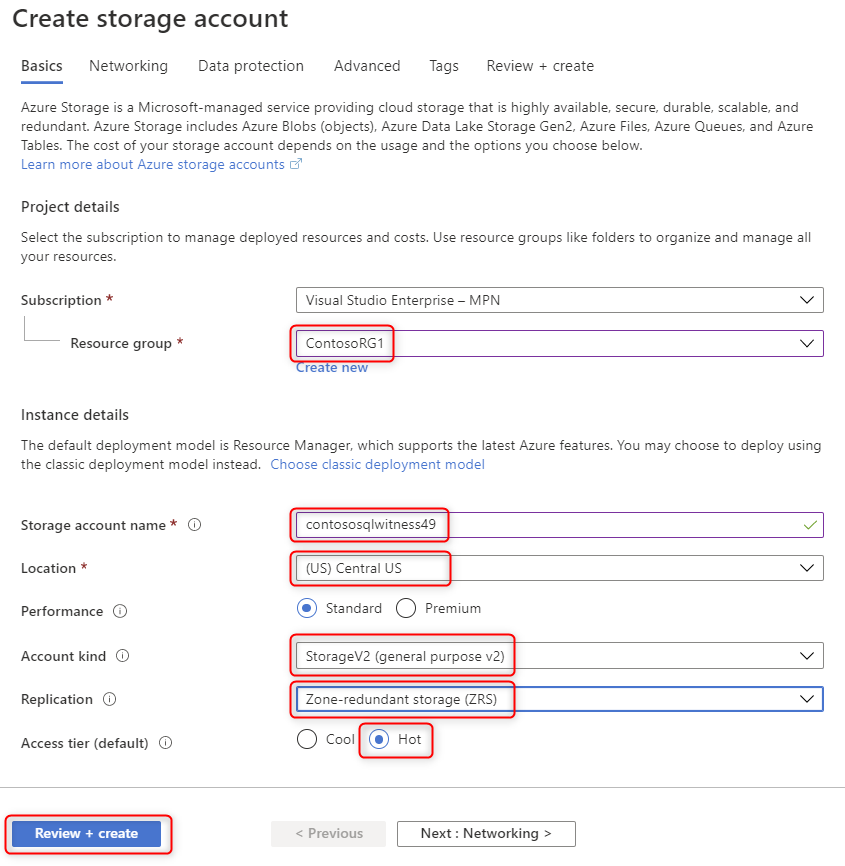
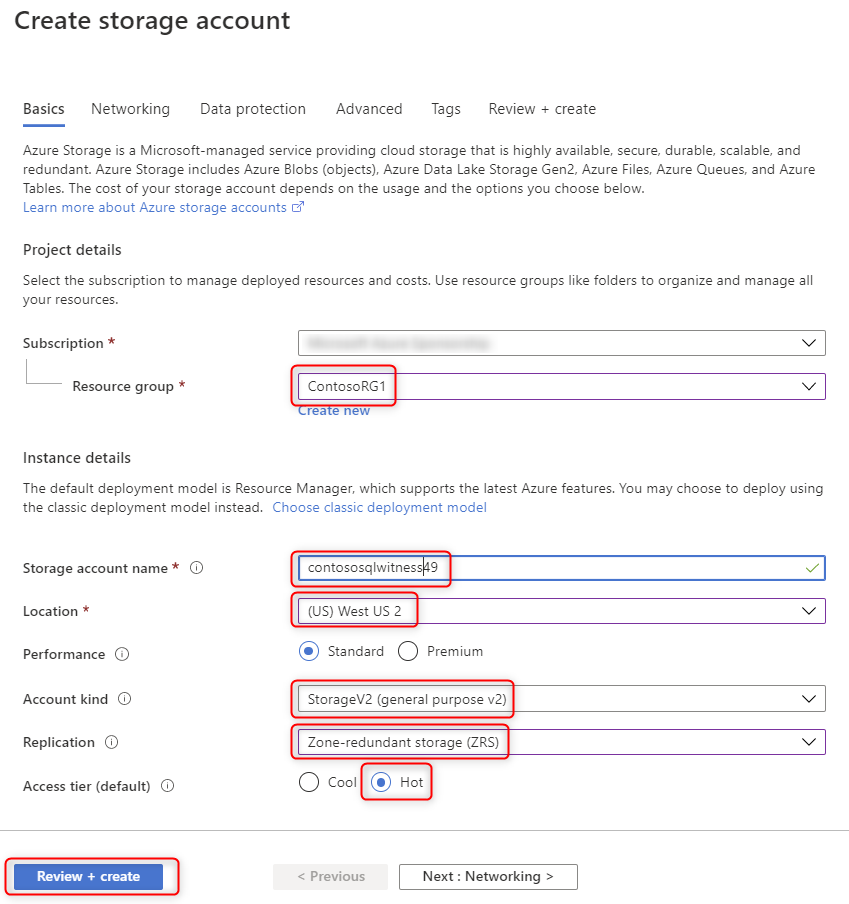
Updates

diff --git a/Hands-on lab/HOL step-by step - Building a resilient IaaS architecture.md b/Hands-on lab/HOL step-by step - Building a resilient IaaS architecture.md
@@ -52,6 +52,8 @@ Microsoft and the trademarks listed at https://www.microsoft.com/en-us/legal/int
     - [Task 1: Validate High Availability](#task-1-validate-high-availability)
     - [Task 2: Validate Disaster Recovery - Failover IaaS region to region](#task-2-validate-disaster-recovery---failover-iaas-region-to-region)
     - [Task 3: Validate Disaster Recovery - Failback IaaS region to region](#task-3-validate-disaster-recovery---failback-iaas-region-to-region)
+    - [Task 4: Validate VM Backup](#task-4-validate-vm-backup)
+    - [Task 4: Validate SQL Backup](#task-4-validate-sql-backup)
   - [After the hands-on lab](#after-the-hands-on-lab)
     - [Task 1: Delete the lab resources](#task-1-delete-the-lab-resources)
 
@@ -966,7 +968,7 @@ In this task, you will use the Front Door approach to configure a highly availab
 
 21. Select **Review + Create**. Once validation has completed, select **Create** to provision the Front Door service.
 
-22. Navigate to the Azure Front Door resource. Select the **Frontend host** URL of Azure Front Door, the Policy Connect web application will load. This is connecting to the **WWWEXTLB** External Load Balancer that is in front of **WEBVM1** and **WEBVM2** running in the **Primary** Site in **BCDRIaaSPrimarySite** resource group and connecting to the SQL Always On Listener at the same location.
+22. Navigate to the Azure Front Door resource. Select the **Frontend host** URL of Azure Front Door, the Policy Connect web application will load. This is connecting to the **ContosoWebLBPrimary** External Load Balancer that is in front of **WEBVM1** and **WEBVM2** running in the **Primary** Site in **ContosoRG1** resource group and connecting to the SQL Always On Listener at the same location.
 
     ![The Frontend host link is selected from the Azure Front Door.](images/dr-fd.png "Frontend host link")
 
@@ -1099,15 +1101,15 @@ Before enabling Azure Backup, you will first register the SQL Server VMs with th
 
 1.  In a new browser tab, navigate to **https://shell.azure.com** and open a **PowerShell** session.
 
-2.  Unless you have done so previously, you will need to registere your Azure subscription to use the `Microsoft.SqlVirtualMachine` resource provider. In the Cloud Shell window, execute the following command:
+2.  Unless you have done so previously, you will need to register your Azure subscription to use the `Microsoft.SqlVirtualMachine` resource provider. In the Cloud Shell window, execute the following command:
 
     ```PowerShell
     Register-AzResourceProvider -ProviderNamespace Microsoft.SqlVirtualMachine
     ```
+    ![Azure Cloud Shell screenshot showing the Microsoft.SqlVirtualMachine resource provider registration. The status is 'Registering'.](images/bk-sql-rp1a.png "Register resource provider")
 
-    > **Note:** It may take several minutes to register the resource provider.
+    > **Note:** It may take several minutes to register the resource provider. Wait until the registration is complete before proceeding to the next step. You can check the registration status using `Get-AzResourceProvider -ProviderNamespace Microsoft.SqlVirtualMachine`.
 
-    ![Azure Cloud Shell screenshot showing the Microsoft.SqlVirtualMachine resource provider registration.](images/bk-sql-rp1.png "Register resource provider")
 
 3.  Register **SQLVM1** with the resource provider by executing the following command in the Cloud Shell window:
 
@@ -1164,6 +1166,8 @@ With the SQL virtual machine resources created and the SQL IaaS extension instal
 
     > **Note:** Using AutoProtect backups up the current database and any future databases on this Always On Availability Group.
 
+    > **Note:** You may also want to backup system databases on each of the SQL Servers.
+
 13. On the 'Backup' blade, note that **BCDRAOG\BCDRAOG** is now listed for backup. Leave the policy as the default `HourlyLogBackup` policy. Select **Enable Backup** and wait for the deployment to complete.
 
     ![Azure portal screenshot showing the BCDRAOG database listed for backup, and the HourlyLogBackup settings. The 'Enable Backup' button is highlighted.](images/bk-sql7.png "Enable Backup button")
@@ -1174,13 +1178,27 @@ With the SQL virtual machine resources created and the SQL IaaS extension instal
 
 15.  Wait for the backup configuration job to complete. Use the **Refresh** button to monitor progress. This will take several minutes.
 
+16. Select **Backup items**, then select **SQL in Azure VM**.
 
+    ![Screenshot showing the path to the SQL in Azure VMs in backup items in the Recovery Services Vault.](images/v-bk-sql1.png "Backup items")
 
+17. From the backup items list, note that the **contosoinsurance** database has status **Warning (Initial backup pending)**.
 
+    ![Azure portal screenshot showing the backup status for the contosoinsurance database.](images/bk-sql10.png "Backup status")
 
+18.  Select the **contosoinsurance** database and select **Backup now**
 
+    ![Azure portal screenshot showing the backup now button for the contosoinsurance database.](images/bk-sql11.png "Backup now")
 
+19.  Review the default backup settings, then select **OK** to start the backup.
 
+    ![Azure portal screenshot showing the backup settings for the contosoinsurance database.](images/bk-sql12.png "Backup settings")
+
+20. The backup proces starts. You can monitor progress from the **Backup Job** pane.
+
+    ![Azure portal screenshot showing the Backup Job for the contosoinsurance database.](images/bk-sql13.png "Database Backup Job")
+
+    > **Note:** You can continue to the next step in the lab without waiting for the backup job to complete.
 
 ## Exercise 4: Validate resiliency
 
@@ -1357,8 +1375,113 @@ In this task, you will failback the Contoso application from the DR site in East
 
     > **Note:** This task could have been done using the Azure Automation script during Failback, but most DBAs would prefer a clean failback and then do this manually once they are comfortable with the failback.
 
+### Task 4: Validate VM Backup
 
+In this task, you will validate the backup for the Contoso application WebVMs. You will do this by removing several image files from **WebVM1**, breaking the Contoso application. You will then restore the VM from backup. 
 
+1.  From the Azure portal, locate and shut down **WebVM2**. This forces all traffic to be served by **WebVM1**, which makes the backup/restore verification easier.
+   
+2.  Navigate to **WebVM1** and connect to the VM using Azure Bastion, using username `demouser@contoso.com` and password `Demo!pass123`.
+
+3.  Open Windows Explorer and navigate to the `C:\inetpub\wwwroot\Content` folder. Select the three `.PNG` files and delete them.
+
+    ![Windows Explorer is used to delete PNG files from the Contoso application.](images/v-bk-web1.png "Delete PNG files")
+
+4.  In the Azure portal, locate the **ContosoWebLBPrimaryIP** public IP address in **ContosoRG1**. Copy the DNS name and open it in a new browser tab. Hold down `CTRL` and refresh the browser, to reload the page without using your local browser cache. The Contoso application should be shown with images missing.
+
+    ![Browser screenshot showing the Contoso application with missing images highlighted](images/v-bk-web2.png "Contoso application with missing images")
+
+5.  To restore WebVM1 from backup, Azure Backup requires that a 'staging' storage account be available. To create this account, in the Azure portal select **+ Create a resource**, then **Storage**, and then **Storage account - blob, file, table, queue**.
+
+6.  Complete the 'Create storage account' form as follows, then select **Review + Create** followed by **Create**.
+
+    -   **Resource group:** ContosoRG1
+    -   **Storage account name:** Unique name starting with `backupstaging`
+    -   **Location:** Central US *(this is your primary region)*
+    -   **Performance:** Standard
+    -   **Account kind:** StorageV2 (general purpose v2)
+    -   **Replication:** Locally-redundant storage (LRS)
+    -   **Access tier:** Hot
+
+    ![Screenshot showing the 'Create storage account' blade in the Azure portal](images/v-bk-web3.png "Create storage account")
+
+7.  Before restoring a VM, the existing VM must be shut down. Use the Azure portal to shut down **WebVM1**.
+
+    > **Note:** since WebVM2 is also shut down, this will break the Contoso application. In a real-world scenario, you would keep WebVM2 running while restoring WebVM1.
+
+8.  In the Azure portal, navigate to the **BackupRSV** Recovery Services Vault. Under 'Protected Items', select **Backup items**, then select **Azure Virtual Machine**.
+
+    ![Screenshot showing the Recovery Services Vault, with the links to the Azure Virtual Machine backup item highlighted.](images/v-bk-web4.png "Backup items")
+
+9.  On the Backup items page, select **WebVM1**. On the **WebVM1** page, select **RestoreVM**.
+
+    ![Screenshot showing the WebVM1 backup status page, with the 'Restore VM' button highlighted.](images/v-bk-web5.png "Restore VM button")
+
+10. Complete the Restore Virtual Machine page as follows, then select **Restore**.
+
+    -   **Restore point:** Select the most recent restore point
+    -   **Restore Configuration:** Replace existing
+    -   **Staging Location**: Choose the storage account you created earlier, starting with `backupstaging`
+
+    ![Screenshot showing settings to restore WebVM1, replacing the existing VM.](images/v-bk-web6.png "Restore VM options")
+
+11. In the **BackupRSV** vault, navigate to the **Backup Jobs** view. Note that there are two new jobs shown as 'In progress', one to take a backup of the VM and a second to restore the VM. 
+
+    ![Screenshot showing both backup and restore jobs for WebVM1.](images/v-bk-web7.png "Restore VM Backup Jobs")
+
+12. It will take several minutes for the VM to be restored. Wait for the restore to complete before proceeding with the lab.
+
+13. Once the restore operation is complete, navigate to the **WebVM1** blade in the Azure portal, and **Start** the VM.
+
+14. Wait for the VM to start, then return to your browser tab showing the Contoso application with missing images. Hold down `CTRL` and select **Refresh** to reload the page. The application is displayed with the images restored, showing the restore from backup has been successful. (As an optional step, you can also open a Bastion connection to the VM and check the deleted .PNG files have been restored.)
+
+15. Start **WebVM2**.
+
+### Task 4: Validate SQL Backup
+
+In this task you will validate the ability to restore the Contoso application database from Azure Backup.
+
+1.  In the Azure portal, navigate to the **BackupRSV** in **ContosoRG1**. Under 'Protected items', select **Backup items**, then select **SQL in Azure VM**.
+
+    ![Screenshot showing the path to the SQL in Azure VMs in backup items in the Recovery Services Vault.](images/v-bk-sql1.png "Backup items")
+
+2.  From the backup items list, select the **contosoinsurance** database.
+
+3.  From the **contosoinsurance** blade, select **Restore**.
+    
+    ![Screenshot showing the restore button for the contosoinsurance database backup.](images/v-bk-sql2.png "Restore button")
+
+4.  Review the default settings on the **Restore** blade. By default, the backup will be restored to a new database alongside the existing database on SQLVM1.
+
+    ![Screenshot showing the settings to restore a SQL database from Azure Backup.](images/v-bk-sql3.png "Restore database settings")
+
+    > **Note:** For an Always On Availability Group backup, the option to overwrite the existing database is not available. You must restore to a parallel location.
+
+5.  Select the option to choose your Restore Point. On the 'Select restore point' blade, explore the restore options. Note how the log-based option offers a point-in-time restore, whereas the full & differential option provides backup based on the backup schedule.
+
+    Choose any restore point and select **OK**.
+
+    ![Screenshot showing the options to select a restore point based on logs.](images/v-bk-sql4.png "Select restore point - Logs")
+
+    ![Screenshot showing the options to select a restore point based on scheduled backups.](images/v-bk-sql5.png "Select restore point - Full & Differential")
+
+6.  Under 'Advanced Configuration', select **Configure**. Review the settings but don't change anything. Select **OK** to accept the default configuration
+   
+7.  Select **OK** to start the restore process.
+   
+8.  Navigate to the **Backup Jobs** view. The ContosoInsurance job is 'In progress'. Use the **Refresh** button to monitor the progress and wait for the job to complete.
+
+    ![Screenshot showing the list of backup jobs with the database restore highlighted.](images/v-bk-sql6.png "Database restore backup job")
+
+9.  Navigate to **SQLVM1** and connect to the VM using Azure Bastion, using username `demouser@contoso.com` and password `Demo!pass123`.
+
+10. On SQLVM1, open **SQL Server Management Studio** and connect to SQLVM1.
+
+11. Note that the restored database is present on the server alongside the production database.
+
+    ![Screenshot showing the restored database in SQL Server Management Studio.](images/v-bk-sql7.png "Restored database")
+
+    > **Note:** You can now either copy data from the restored database to the production database, or add this database to the Always On Availability Group and switch the Web tier to use the restored database.
 
 ## After the hands-on lab
 
